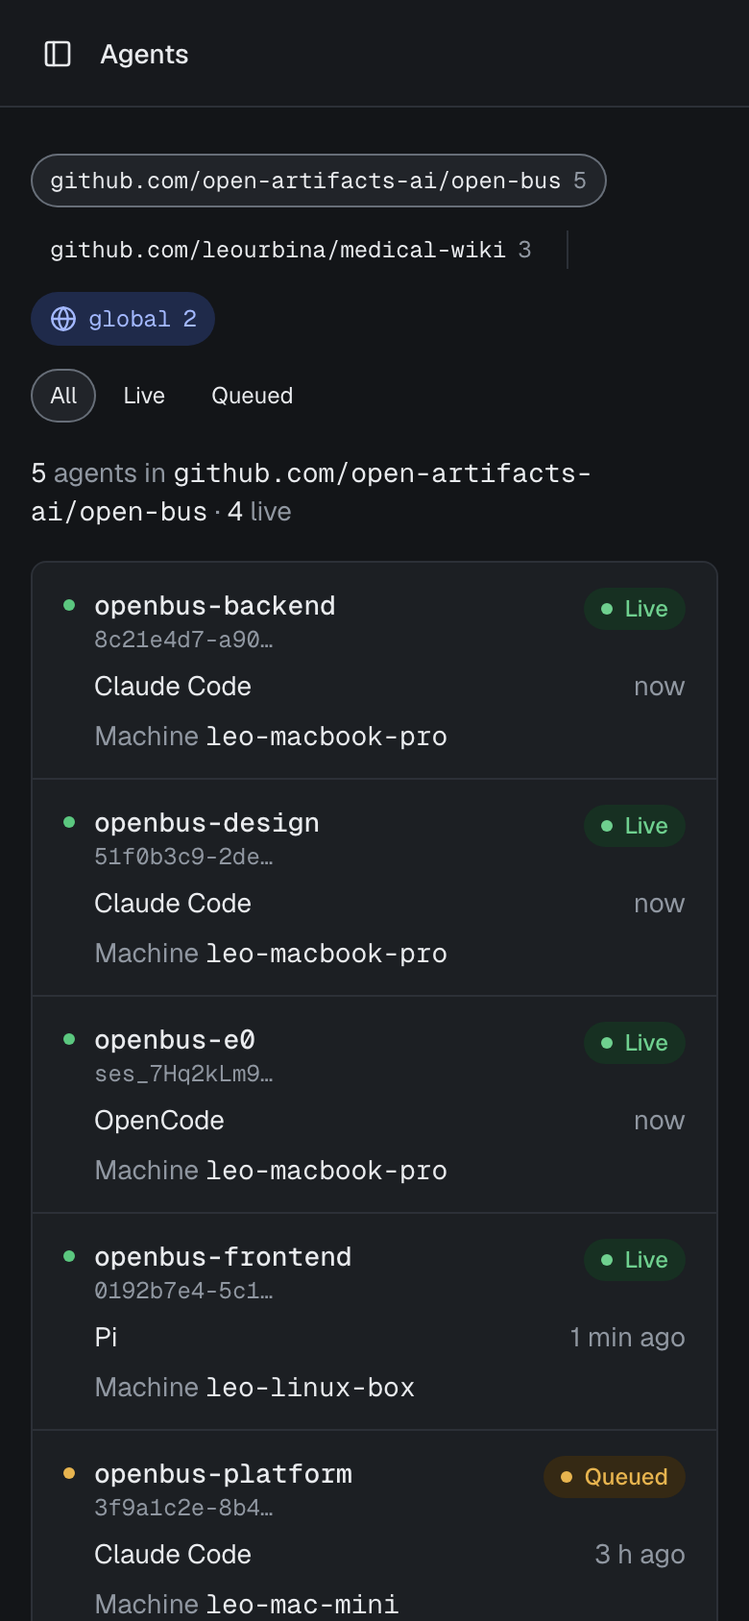
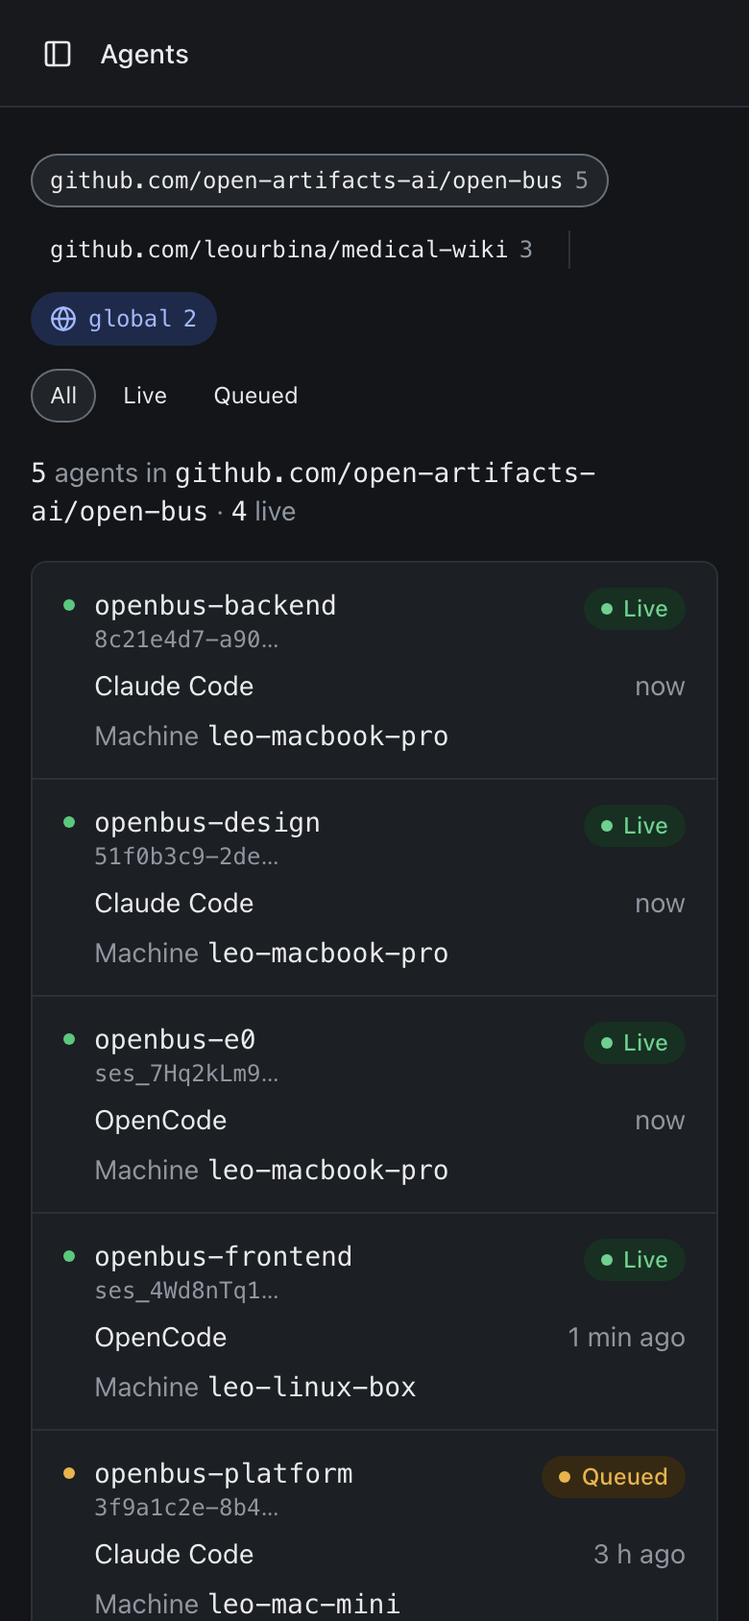
docs(ui): align the Agents mock with the CLI transcript's sample data (D7)
openbus-frontend runs OpenCode on leo-linux-box; the open-bus namespace
holds the five openbus-* agents (4 live, 1 queued) and Pi stays in the
global and medical-wiki rosters. Recaptures the landing's live shots.

Claude-Session: https://claude.ai/code/session_018SoiHLvxr1LBHhtmutk22T

diff --git a/design/screens/live.html b/design/screens/live.html
@@ -14,8 +14,9 @@
   are not listed: their names are freed. The roster says only Live and Queued.
   Global agents render once, only in the neutral Global agents section, never in a
   namespace table and never with a home namespace.
-  Machines and states agree with machines.html (D4): agents sit on leo-macbook-pro (live)
-  or leo-mac-mini (offline, so Queued); none on build-vm-01, which is revoked.
+  Machines and states follow machines.html (D4) plus leo-linux-box (live), the sample data
+  of design/cli/transcript.md: agents sit on leo-macbook-pro and leo-linux-box (live) or
+  leo-mac-mini (offline, so Queued); none on build-vm-01, which is revoked.
   Styles: live.css, generated by `pnpm --filter @ob/ui build:screens`.
   Untrusted strings (agent names, refs, machine labels, namespaces) sit in <bdi>.
 -->
@@ -64,7 +65,7 @@
                   <svg xmlns="http://www.w3.org/2000/svg" width="24" height="24" viewBox="0 0 24 24" fill="none" stroke="currentColor" stroke-width="2" stroke-linecap="round" stroke-linejoin="round" class="lucide lucide-laptop" aria-hidden="true"><path d="M18 5a2 2 0 0 1 2 2v8.526a2 2 0 0 0 .212.897l1.068 2.127a1 1 0 0 1-.9 1.45H3.62a1 1 0 0 1-.9-1.45l1.068-2.127A2 2 0 0 0 4 15.526V7a2 2 0 0 1 2-2z"></path><path d="M20.054 15.987H3.946"></path></svg>
                   <span>Machines</span>
                 </a>
-                <div data-slot="sidebar-menu-badge" data-sidebar="menu-badge" class="pointer-events-none absolute right-1 flex h-5 min-w-5 items-center justify-center rounded-md px-1 text-xs font-medium text-sidebar-foreground tabular-nums select-none peer-hover/menu-button:text-sidebar-accent-foreground peer-data-[active=true]/menu-button:text-sidebar-accent-foreground peer-data-[size=sm]/menu-button:top-1 peer-data-[size=default]/menu-button:top-1.5 peer-data-[size=lg]/menu-button:top-2.5 group-data-[collapsible=icon]:hidden"><span data-show-in="default empty">3</span></div>
+                <div data-slot="sidebar-menu-badge" data-sidebar="menu-badge" class="pointer-events-none absolute right-1 flex h-5 min-w-5 items-center justify-center rounded-md px-1 text-xs font-medium text-sidebar-foreground tabular-nums select-none peer-hover/menu-button:text-sidebar-accent-foreground peer-data-[active=true]/menu-button:text-sidebar-accent-foreground peer-data-[size=sm]/menu-button:top-1 peer-data-[size=default]/menu-button:top-1.5 peer-data-[size=lg]/menu-button:top-2.5 group-data-[collapsible=icon]:hidden"><span data-show-in="default empty">4</span></div>
               </li>
               <li data-slot="sidebar-menu-item" data-sidebar="menu-item" class="group/menu-item relative">
                 <a href="live.html" aria-current="page" data-slot="sidebar-menu-button" data-sidebar="menu-button" data-size="default" data-active="true" class="peer/menu-button flex w-full items-center gap-2 overflow-hidden rounded-md p-2 text-left outline-hidden transition-[width,height,padding] group-has-data-[sidebar=menu-action]/menu-item:pr-8 group-data-[collapsible=icon]:size-8! group-data-[collapsible=icon]:p-2! focus-visible:outline-2 focus-visible:outline-solid focus-visible:-outline-offset-2 focus-visible:outline-sidebar-ring active:bg-sidebar-accent active:text-sidebar-accent-foreground disabled:pointer-events-none disabled:opacity-50 aria-disabled:pointer-events-none aria-disabled:opacity-50 data-[active=true]:bg-card data-[active=true]:font-medium data-[active=true]:text-sidebar-foreground data-[active=true]:shadow-[inset_0_0_0_1px_var(--color-input)] data-[state=open]:hover:bg-sidebar-accent data-[state=open]:hover:text-sidebar-accent-foreground [&>span:last-child]:truncate [&>svg]:size-4 [&>svg]:shrink-0 hover:bg-sidebar-accent hover:text-sidebar-accent-foreground h-8 text-sm">
@@ -119,9 +120,9 @@
         <!-- biome-ignore lint/a11y/useSemanticElements: Radix ToggleGroup renders role="group" on a div. -->
         <div data-slot="toggle-group" role="group" aria-label="Namespaces" data-variant="default" data-size="sm" data-spacing="1" style="--gap: 1" class="group/toggle-group flex w-fit items-center gap-[--spacing(var(--gap))] rounded-md data-[spacing=default]:data-[variant=outline]:shadow-xs max-w-full min-w-0 flex-wrap gap-y-2">
           <!-- biome-ignore lint/a11y/useSemanticElements: Radix ToggleGroup renders this role on a button. -->
-          <button type="button" role="radio" aria-checked="false" data-state="off" data-slot="toggle-group-item" data-variant="default" data-size="sm" data-spacing="1" data-ns="openbus" data-count="5" data-empty-count="0" class="inline-flex items-center justify-center transition-[color,box-shadow] outline-none hover:bg-muted hover:text-muted-foreground focus-visible:outline-2 focus-visible:outline-solid focus-visible:outline-offset-2 focus-visible:outline-ring disabled:pointer-events-none disabled:opacity-50 aria-invalid:border-destructive aria-invalid:ring-destructive/20 dark:aria-invalid:ring-destructive/40 [&_svg]:pointer-events-none [&_svg]:shrink-0 [&_svg:not([class*='size-'])]:size-4 bg-transparent w-auto min-w-0 shrink-0 focus:z-10 focus-visible:z-10 data-[spacing=0]:rounded-none data-[spacing=0]:shadow-none data-[spacing=0]:first:rounded-l-md data-[spacing=0]:last:rounded-r-md data-[spacing=0]:data-[variant=outline]:border-l-0 data-[spacing=0]:data-[variant=outline]:first:border-l gap-1.5 rounded-full px-2.5 text-xs font-normal data-[state=on]:bg-secondary data-[state=on]:text-foreground data-[state=on]:shadow-[inset_0_0_0_1px_var(--ob-border-strong)] h-auto min-h-7 max-w-full py-1 text-left whitespace-normal"><bdi class="font-mono [overflow-wrap:anywhere]">openbus</bdi><span class="font-mono tabular-nums text-muted-foreground"><span class="sr-only">, </span><span data-show="default">5</span><span data-show="empty">0</span><span class="sr-only"> agents</span></span></button>
+          <button type="button" role="radio" aria-checked="false" data-state="off" data-slot="toggle-group-item" data-variant="default" data-size="sm" data-spacing="1" data-ns="openbus" data-count="5" data-empty-count="0" class="inline-flex items-center justify-center transition-[color,box-shadow] outline-none hover:bg-muted hover:text-muted-foreground focus-visible:outline-2 focus-visible:outline-solid focus-visible:outline-offset-2 focus-visible:outline-ring disabled:pointer-events-none disabled:opacity-50 aria-invalid:border-destructive aria-invalid:ring-destructive/20 dark:aria-invalid:ring-destructive/40 [&_svg]:pointer-events-none [&_svg]:shrink-0 [&_svg:not([class*='size-'])]:size-4 bg-transparent w-auto min-w-0 shrink-0 focus:z-10 focus-visible:z-10 data-[spacing=0]:rounded-none data-[spacing=0]:shadow-none data-[spacing=0]:first:rounded-l-md data-[spacing=0]:last:rounded-r-md data-[spacing=0]:data-[variant=outline]:border-l-0 data-[spacing=0]:data-[variant=outline]:first:border-l gap-1.5 rounded-full px-2.5 text-xs font-normal data-[state=on]:bg-secondary data-[state=on]:text-foreground data-[state=on]:shadow-[inset_0_0_0_1px_var(--ob-border-strong)] h-auto min-h-7 max-w-full py-1 text-left whitespace-normal"><bdi class="font-mono [overflow-wrap:anywhere]">github.com/open-artifacts-ai/open-bus</bdi><span class="font-mono tabular-nums text-muted-foreground"><span class="sr-only">, </span><span data-show="default">5</span><span data-show="empty">0</span><span class="sr-only"> agents</span></span></button>
           <!-- biome-ignore lint/a11y/useSemanticElements: Radix ToggleGroup renders this role on a button. -->
-          <button type="button" role="radio" aria-checked="false" data-state="off" data-slot="toggle-group-item" data-variant="default" data-size="sm" data-spacing="1" data-ns="medical-wiki" data-count="3" data-empty-count="0" class="inline-flex items-center justify-center transition-[color,box-shadow] outline-none hover:bg-muted hover:text-muted-foreground focus-visible:outline-2 focus-visible:outline-solid focus-visible:outline-offset-2 focus-visible:outline-ring disabled:pointer-events-none disabled:opacity-50 aria-invalid:border-destructive aria-invalid:ring-destructive/20 dark:aria-invalid:ring-destructive/40 [&_svg]:pointer-events-none [&_svg]:shrink-0 [&_svg:not([class*='size-'])]:size-4 bg-transparent w-auto min-w-0 shrink-0 focus:z-10 focus-visible:z-10 data-[spacing=0]:rounded-none data-[spacing=0]:shadow-none data-[spacing=0]:first:rounded-l-md data-[spacing=0]:last:rounded-r-md data-[spacing=0]:data-[variant=outline]:border-l-0 data-[spacing=0]:data-[variant=outline]:first:border-l gap-1.5 rounded-full px-2.5 text-xs font-normal data-[state=on]:bg-secondary data-[state=on]:text-foreground data-[state=on]:shadow-[inset_0_0_0_1px_var(--ob-border-strong)] h-auto min-h-7 max-w-full py-1 text-left whitespace-normal"><bdi class="font-mono [overflow-wrap:anywhere]">medical-wiki</bdi><span class="font-mono tabular-nums text-muted-foreground"><span class="sr-only">, </span><span data-show="default">3</span><span data-show="empty">0</span><span class="sr-only"> agents</span></span></button>
+          <button type="button" role="radio" aria-checked="false" data-state="off" data-slot="toggle-group-item" data-variant="default" data-size="sm" data-spacing="1" data-ns="medical-wiki" data-count="3" data-empty-count="0" class="inline-flex items-center justify-center transition-[color,box-shadow] outline-none hover:bg-muted hover:text-muted-foreground focus-visible:outline-2 focus-visible:outline-solid focus-visible:outline-offset-2 focus-visible:outline-ring disabled:pointer-events-none disabled:opacity-50 aria-invalid:border-destructive aria-invalid:ring-destructive/20 dark:aria-invalid:ring-destructive/40 [&_svg]:pointer-events-none [&_svg]:shrink-0 [&_svg:not([class*='size-'])]:size-4 bg-transparent w-auto min-w-0 shrink-0 focus:z-10 focus-visible:z-10 data-[spacing=0]:rounded-none data-[spacing=0]:shadow-none data-[spacing=0]:first:rounded-l-md data-[spacing=0]:last:rounded-r-md data-[spacing=0]:data-[variant=outline]:border-l-0 data-[spacing=0]:data-[variant=outline]:first:border-l gap-1.5 rounded-full px-2.5 text-xs font-normal data-[state=on]:bg-secondary data-[state=on]:text-foreground data-[state=on]:shadow-[inset_0_0_0_1px_var(--ob-border-strong)] h-auto min-h-7 max-w-full py-1 text-left whitespace-normal"><bdi class="font-mono [overflow-wrap:anywhere]">github.com/leourbina/medical-wiki</bdi><span class="font-mono tabular-nums text-muted-foreground"><span class="sr-only">, </span><span data-show="default">3</span><span data-show="empty">0</span><span class="sr-only"> agents</span></span></button>
           <div data-orientation="vertical" role="none" data-slot="separator" class="shrink-0 bg-border data-[orientation=horizontal]:h-px data-[orientation=horizontal]:w-full data-[orientation=vertical]:w-px mx-1 data-[orientation=vertical]:h-5"></div>
           <!-- biome-ignore lint/a11y/useSemanticElements: Radix ToggleGroup renders this role on a button. -->
           <button type="button" role="radio" aria-checked="false" data-state="off" data-slot="toggle-group-item" data-variant="default" data-size="sm" data-spacing="1" data-ns="global" data-count="2" data-empty-count="2" class="inline-flex items-center justify-center transition-[color,box-shadow] outline-none focus-visible:outline-2 focus-visible:outline-solid focus-visible:outline-offset-2 focus-visible:outline-ring disabled:pointer-events-none disabled:opacity-50 aria-invalid:border-destructive aria-invalid:ring-destructive/20 dark:aria-invalid:ring-destructive/40 [&_svg]:pointer-events-none [&_svg]:shrink-0 [&_svg:not([class*='size-'])]:size-4 w-auto min-w-0 shrink-0 focus:z-10 focus-visible:z-10 data-[spacing=0]:rounded-none data-[spacing=0]:shadow-none data-[spacing=0]:first:rounded-l-md data-[spacing=0]:last:rounded-r-md data-[spacing=0]:data-[variant=outline]:border-l-0 data-[spacing=0]:data-[variant=outline]:first:border-l gap-1.5 rounded-full px-2.5 text-xs font-normal data-[state=on]:shadow-[inset_0_0_0_1px_var(--ob-border-strong)] h-auto min-h-7 max-w-full py-1 text-left whitespace-normal bg-(--ob-accent-soft) text-(--ob-accent-fg) hover:bg-(--ob-accent-soft) hover:text-(--ob-accent-fg) hover:shadow-[inset_0_0_0_1px_var(--ob-accent-fg)] data-[state=on]:bg-(--ob-accent-soft) data-[state=on]:text-(--ob-accent-fg)"><svg xmlns="http://www.w3.org/2000/svg" width="24" height="24" viewBox="0 0 24 24" fill="none" stroke="currentColor" stroke-width="2" stroke-linecap="round" stroke-linejoin="round" class="lucide lucide-globe size-3.5" aria-hidden="true"><circle cx="12" cy="12" r="10"></circle><path d="M12 2a14.5 14.5 0 0 0 0 20 14.5 14.5 0 0 0 0-20"></path><path d="M2 12h20"></path></svg><span class="font-mono">global</span><span class="font-mono tabular-nums"><span class="sr-only">, </span><span data-show="default">2</span><span data-show="empty">2</span><span class="sr-only"> agents</span></span></button>
@@ -141,14 +142,14 @@
       <div data-show="loading" aria-hidden="true" class="flex flex-wrap gap-2"><div data-slot="skeleton" class="animate-pulse bg-accent rounded-full h-7 w-24"></div><div data-slot="skeleton" class="animate-pulse bg-accent rounded-full h-7 w-32"></div><div data-slot="skeleton" class="animate-pulse bg-accent rounded-full h-7 w-20"></div></div>
 
       <p class="text-sm text-muted-foreground" aria-live="polite">
-        <span data-show="default" data-ns-only="openbus" data-filter-only="none"><span data-summary-ns="openbus" data-total="5" data-live="3"><span class="font-mono text-foreground">5</span> agents in <bdi class="font-mono text-foreground">openbus</bdi> · <span class="font-mono text-foreground">3</span> live</span></span>
-        <span data-show="default" data-ns-only="openbus" data-filter-only="live"><span data-summary-ns="openbus" data-summary-filter="live" data-shown="3" data-total="5" data-live="3"><span class="font-mono text-foreground">3</span> of <span class="font-mono text-foreground">5</span> agents in <bdi class="font-mono text-foreground">openbus</bdi> · <span class="font-mono text-foreground">3</span> live</span></span>
-        <span data-show="default" data-ns-only="openbus" data-filter-only="queued"><span data-summary-ns="openbus" data-summary-filter="queued" data-shown="2" data-total="5" data-live="3"><span class="font-mono text-foreground">2</span> of <span class="font-mono text-foreground">5</span> agents in <bdi class="font-mono text-foreground">openbus</bdi> · <span class="font-mono text-foreground">3</span> live</span></span>
-        <span data-show="empty" data-ns-only="openbus">No agents in <bdi class="font-mono text-foreground">openbus</bdi></span>
-        <span data-show="default" data-ns-only="medical-wiki" data-filter-only="none"><span data-summary-ns="medical-wiki" data-total="3" data-live="0"><span class="font-mono text-foreground">3</span> agents in <bdi class="font-mono text-foreground">medical-wiki</bdi> · <span class="font-mono text-foreground">0</span> live</span></span>
-        <span data-show="default" data-ns-only="medical-wiki" data-filter-only="live"><span data-summary-ns="medical-wiki" data-summary-filter="live" data-shown="0" data-total="3" data-live="0"><span class="font-mono text-foreground">0</span> of <span class="font-mono text-foreground">3</span> agents in <bdi class="font-mono text-foreground">medical-wiki</bdi> · <span class="font-mono text-foreground">0</span> live</span></span>
-        <span data-show="default" data-ns-only="medical-wiki" data-filter-only="queued"><span data-summary-ns="medical-wiki" data-summary-filter="queued" data-shown="3" data-total="3" data-live="0"><span class="font-mono text-foreground">3</span> of <span class="font-mono text-foreground">3</span> agents in <bdi class="font-mono text-foreground">medical-wiki</bdi> · <span class="font-mono text-foreground">0</span> live</span></span>
-        <span data-show="empty" data-ns-only="medical-wiki">No agents in <bdi class="font-mono text-foreground">medical-wiki</bdi></span>
+        <span data-show="default" data-ns-only="openbus" data-filter-only="none"><span data-summary-ns="openbus" data-total="5" data-live="4"><span class="font-mono text-foreground">5</span> agents in <bdi class="font-mono text-foreground">github.com/open-artifacts-ai/open-bus</bdi> · <span class="font-mono text-foreground">4</span> live</span></span>
+        <span data-show="default" data-ns-only="openbus" data-filter-only="live"><span data-summary-ns="openbus" data-summary-filter="live" data-shown="4" data-total="5" data-live="4"><span class="font-mono text-foreground">4</span> of <span class="font-mono text-foreground">5</span> agents in <bdi class="font-mono text-foreground">github.com/open-artifacts-ai/open-bus</bdi> · <span class="font-mono text-foreground">4</span> live</span></span>
+        <span data-show="default" data-ns-only="openbus" data-filter-only="queued"><span data-summary-ns="openbus" data-summary-filter="queued" data-shown="1" data-total="5" data-live="4"><span class="font-mono text-foreground">1</span> of <span class="font-mono text-foreground">5</span> agents in <bdi class="font-mono text-foreground">github.com/open-artifacts-ai/open-bus</bdi> · <span class="font-mono text-foreground">4</span> live</span></span>
+        <span data-show="empty" data-ns-only="openbus">No agents in <bdi class="font-mono text-foreground">github.com/open-artifacts-ai/open-bus</bdi></span>
+        <span data-show="default" data-ns-only="medical-wiki" data-filter-only="none"><span data-summary-ns="medical-wiki" data-total="3" data-live="0"><span class="font-mono text-foreground">3</span> agents in <bdi class="font-mono text-foreground">github.com/leourbina/medical-wiki</bdi> · <span class="font-mono text-foreground">0</span> live</span></span>
+        <span data-show="default" data-ns-only="medical-wiki" data-filter-only="live"><span data-summary-ns="medical-wiki" data-summary-filter="live" data-shown="0" data-total="3" data-live="0"><span class="font-mono text-foreground">0</span> of <span class="font-mono text-foreground">3</span> agents in <bdi class="font-mono text-foreground">github.com/leourbina/medical-wiki</bdi> · <span class="font-mono text-foreground">0</span> live</span></span>
+        <span data-show="default" data-ns-only="medical-wiki" data-filter-only="queued"><span data-summary-ns="medical-wiki" data-summary-filter="queued" data-shown="3" data-total="3" data-live="0"><span class="font-mono text-foreground">3</span> of <span class="font-mono text-foreground">3</span> agents in <bdi class="font-mono text-foreground">github.com/leourbina/medical-wiki</bdi> · <span class="font-mono text-foreground">0</span> live</span></span>
+        <span data-show="empty" data-ns-only="medical-wiki">No agents in <bdi class="font-mono text-foreground">github.com/leourbina/medical-wiki</bdi></span>
         <span data-show-in="default empty" data-ns-only="global" data-filter-only="none"><span data-summary-ns="global" data-total="2" data-live="1"><span class="font-mono text-foreground">2</span> global agents · <span class="font-mono text-foreground">1</span> live</span></span>
         <span data-show-in="default empty" data-ns-only="global" data-filter-only="live"><span data-summary-ns="global" data-summary-filter="live" data-shown="1" data-total="2" data-live="1"><span class="font-mono text-foreground">1</span> of <span class="font-mono text-foreground">2</span> global agents · <span class="font-mono text-foreground">1</span> live</span></span>
         <span data-show-in="default empty" data-ns-only="global" data-filter-only="queued"><span data-summary-ns="global" data-summary-filter="queued" data-shown="1" data-total="2" data-live="1"><span class="font-mono text-foreground">1</span> of <span class="font-mono text-foreground">2</span> global agents · <span class="font-mono text-foreground">1</span> live</span></span>
@@ -175,6 +176,38 @@
                   <div class="flex min-w-0 items-start gap-2.5">
                     <span data-slot="presence-dot" aria-hidden="true" class="mt-[7px] size-1.5 shrink-0 rounded-full bg-(--ob-success) group-data-[paused=true]/roster:bg-(--ob-border-strong)"></span>
                     <div class="grid min-w-0">
+                      <div class="flex min-w-0 flex-wrap items-center gap-x-2 gap-y-0.5"><bdi class="font-mono font-medium [overflow-wrap:anywhere]">openbus-backend</bdi></div>
+                      <span class="text-xs text-muted-foreground"><span class="sr-only">Session id </span><bdi class="font-mono [overflow-wrap:anywhere]">8c21e4d7-a90</bdi>…</span>
+                    </div>
+                  </div>
+                </td>
+                <td data-slot="table-cell" class="p-2 align-middle whitespace-nowrap [&:has([role=checkbox])]:pr-0 [&>[role=checkbox]]:translate-y-[2px] px-4 md:min-w-32 max-md:col-start-1 max-md:row-start-2 max-md:p-0 max-md:pl-4">Claude Code</td>
+                <td data-slot="table-cell" class="p-2 align-middle [&:has([role=checkbox])]:pr-0 [&>[role=checkbox]]:translate-y-[2px] min-w-0 whitespace-normal px-4 md:min-w-44 max-md:col-span-2 max-md:row-start-3 max-md:p-0 max-md:pl-4"><span class="text-muted-foreground md:hidden">Machine </span><bdi class="font-mono [overflow-wrap:anywhere]">leo-macbook-pro</bdi></td>
+                <td data-slot="table-cell" class="p-2 align-middle whitespace-nowrap [&:has([role=checkbox])]:pr-0 [&>[role=checkbox]]:translate-y-[2px] px-4 md:min-w-28 max-md:col-start-2 max-md:row-start-1 max-md:justify-self-end max-md:p-0"><span data-slot="badge" data-variant="secondary" data-status="live" class="inline-flex w-fit shrink-0 items-center justify-center overflow-hidden rounded-full border border-transparent px-2 py-0.5 text-xs font-medium whitespace-nowrap transition-[color,box-shadow] focus-visible:outline-2 focus-visible:outline-solid focus-visible:outline-offset-2 focus-visible:outline-ring aria-invalid:border-destructive aria-invalid:ring-destructive/20 dark:aria-invalid:ring-destructive/40 [&>svg]:pointer-events-none [&>svg]:size-3 [a&]:hover:bg-secondary/90 gap-1.5 bg-(--ob-success-soft) text-(--ob-success-fg) group-data-[paused=true]/roster:bg-secondary group-data-[paused=true]/roster:text-muted-foreground"><span data-slot="status-badge-dot" aria-hidden="true" class="size-1.5 shrink-0 rounded-full bg-current"></span>Live</span></td>
+                <td data-slot="table-cell" class="p-2 align-middle whitespace-nowrap [&:has([role=checkbox])]:pr-0 [&>[role=checkbox]]:translate-y-[2px] px-4 text-muted-foreground md:min-w-24 max-md:col-start-2 max-md:row-start-2 max-md:p-0 max-md:text-right">now</td>
+              </tr>
+
+              <tr data-ns="openbus" data-slot="table-row" class="border-b transition-colors hover:bg-muted/50 has-aria-expanded:bg-muted/50 data-[state=selected]:bg-brand-soft data-[state=selected]:[&>*:first-child]:shadow-[inset_3px_0_0_var(--color-brand)] max-md:grid max-md:grid-cols-[minmax(0,1fr)_auto] max-md:gap-x-3 max-md:gap-y-1.5 max-md:px-4 max-md:py-3">
+                <td data-slot="table-cell" class="p-2 align-middle [&:has([role=checkbox])]:pr-0 [&>[role=checkbox]]:translate-y-[2px] w-full min-w-0 whitespace-normal px-4 py-2 max-md:p-0">
+                  <div class="flex min-w-0 items-start gap-2.5">
+                    <span data-slot="presence-dot" aria-hidden="true" class="mt-[7px] size-1.5 shrink-0 rounded-full bg-(--ob-success) group-data-[paused=true]/roster:bg-(--ob-border-strong)"></span>
+                    <div class="grid min-w-0">
+                      <div class="flex min-w-0 flex-wrap items-center gap-x-2 gap-y-0.5"><bdi class="font-mono font-medium [overflow-wrap:anywhere]">openbus-design</bdi></div>
+                      <span class="text-xs text-muted-foreground"><span class="sr-only">Session id </span><bdi class="font-mono [overflow-wrap:anywhere]">51f0b3c9-2de</bdi>…</span>
+                    </div>
+                  </div>
+                </td>
+                <td data-slot="table-cell" class="p-2 align-middle whitespace-nowrap [&:has([role=checkbox])]:pr-0 [&>[role=checkbox]]:translate-y-[2px] px-4 md:min-w-32 max-md:col-start-1 max-md:row-start-2 max-md:p-0 max-md:pl-4">Claude Code</td>
+                <td data-slot="table-cell" class="p-2 align-middle [&:has([role=checkbox])]:pr-0 [&>[role=checkbox]]:translate-y-[2px] min-w-0 whitespace-normal px-4 md:min-w-44 max-md:col-span-2 max-md:row-start-3 max-md:p-0 max-md:pl-4"><span class="text-muted-foreground md:hidden">Machine </span><bdi class="font-mono [overflow-wrap:anywhere]">leo-macbook-pro</bdi></td>
+                <td data-slot="table-cell" class="p-2 align-middle whitespace-nowrap [&:has([role=checkbox])]:pr-0 [&>[role=checkbox]]:translate-y-[2px] px-4 md:min-w-28 max-md:col-start-2 max-md:row-start-1 max-md:justify-self-end max-md:p-0"><span data-slot="badge" data-variant="secondary" data-status="live" class="inline-flex w-fit shrink-0 items-center justify-center overflow-hidden rounded-full border border-transparent px-2 py-0.5 text-xs font-medium whitespace-nowrap transition-[color,box-shadow] focus-visible:outline-2 focus-visible:outline-solid focus-visible:outline-offset-2 focus-visible:outline-ring aria-invalid:border-destructive aria-invalid:ring-destructive/20 dark:aria-invalid:ring-destructive/40 [&>svg]:pointer-events-none [&>svg]:size-3 [a&]:hover:bg-secondary/90 gap-1.5 bg-(--ob-success-soft) text-(--ob-success-fg) group-data-[paused=true]/roster:bg-secondary group-data-[paused=true]/roster:text-muted-foreground"><span data-slot="status-badge-dot" aria-hidden="true" class="size-1.5 shrink-0 rounded-full bg-current"></span>Live</span></td>
+                <td data-slot="table-cell" class="p-2 align-middle whitespace-nowrap [&:has([role=checkbox])]:pr-0 [&>[role=checkbox]]:translate-y-[2px] px-4 text-muted-foreground md:min-w-24 max-md:col-start-2 max-md:row-start-2 max-md:p-0 max-md:text-right">now</td>
+              </tr>
+
+              <tr data-ns="openbus" data-slot="table-row" class="border-b transition-colors hover:bg-muted/50 has-aria-expanded:bg-muted/50 data-[state=selected]:bg-brand-soft data-[state=selected]:[&>*:first-child]:shadow-[inset_3px_0_0_var(--color-brand)] max-md:grid max-md:grid-cols-[minmax(0,1fr)_auto] max-md:gap-x-3 max-md:gap-y-1.5 max-md:px-4 max-md:py-3">
+                <td data-slot="table-cell" class="p-2 align-middle [&:has([role=checkbox])]:pr-0 [&>[role=checkbox]]:translate-y-[2px] w-full min-w-0 whitespace-normal px-4 py-2 max-md:p-0">
+                  <div class="flex min-w-0 items-start gap-2.5">
+                    <span data-slot="presence-dot" aria-hidden="true" class="mt-[7px] size-1.5 shrink-0 rounded-full bg-(--ob-success) group-data-[paused=true]/roster:bg-(--ob-border-strong)"></span>
+                    <div class="grid min-w-0">
                       <div class="flex min-w-0 flex-wrap items-center gap-x-2 gap-y-0.5"><bdi class="font-mono font-medium [overflow-wrap:anywhere]">openbus-e0</bdi></div>
                       <span class="text-xs text-muted-foreground"><span class="sr-only">Session </span><bdi class="font-mono [overflow-wrap:anywhere]">ses_7Hq2kLm9</bdi>…</span>
                     </div>
@@ -191,15 +224,15 @@
                   <div class="flex min-w-0 items-start gap-2.5">
                     <span data-slot="presence-dot" aria-hidden="true" class="mt-[7px] size-1.5 shrink-0 rounded-full bg-(--ob-success) group-data-[paused=true]/roster:bg-(--ob-border-strong)"></span>
                     <div class="grid min-w-0">
-                      <div class="flex min-w-0 flex-wrap items-center gap-x-2 gap-y-0.5"><bdi class="font-mono font-medium [overflow-wrap:anywhere]">OpenBus Frontend</bdi></div>
+                      <div class="flex min-w-0 flex-wrap items-center gap-x-2 gap-y-0.5"><bdi class="font-mono font-medium [overflow-wrap:anywhere]">openbus-frontend</bdi></div>
                       <span class="text-xs text-muted-foreground"><span class="sr-only">Session </span><bdi class="font-mono [overflow-wrap:anywhere]">ses_4Wd8nTq1</bdi>…</span>
                     </div>
                   </div>
                 </td>
                 <td data-slot="table-cell" class="p-2 align-middle whitespace-nowrap [&:has([role=checkbox])]:pr-0 [&>[role=checkbox]]:translate-y-[2px] px-4 md:min-w-32 max-md:col-start-1 max-md:row-start-2 max-md:p-0 max-md:pl-4">OpenCode</td>
-                <td data-slot="table-cell" class="p-2 align-middle [&:has([role=checkbox])]:pr-0 [&>[role=checkbox]]:translate-y-[2px] min-w-0 whitespace-normal px-4 md:min-w-44 max-md:col-span-2 max-md:row-start-3 max-md:p-0 max-md:pl-4"><span class="text-muted-foreground md:hidden">Machine </span><bdi class="font-mono [overflow-wrap:anywhere]">leo-macbook-pro</bdi></td>
+                <td data-slot="table-cell" class="p-2 align-middle [&:has([role=checkbox])]:pr-0 [&>[role=checkbox]]:translate-y-[2px] min-w-0 whitespace-normal px-4 md:min-w-44 max-md:col-span-2 max-md:row-start-3 max-md:p-0 max-md:pl-4"><span class="text-muted-foreground md:hidden">Machine </span><bdi class="font-mono [overflow-wrap:anywhere]">leo-linux-box</bdi></td>
                 <td data-slot="table-cell" class="p-2 align-middle whitespace-nowrap [&:has([role=checkbox])]:pr-0 [&>[role=checkbox]]:translate-y-[2px] px-4 md:min-w-28 max-md:col-start-2 max-md:row-start-1 max-md:justify-self-end max-md:p-0"><span data-slot="badge" data-variant="secondary" data-status="live" class="inline-flex w-fit shrink-0 items-center justify-center overflow-hidden rounded-full border border-transparent px-2 py-0.5 text-xs font-medium whitespace-nowrap transition-[color,box-shadow] focus-visible:outline-2 focus-visible:outline-solid focus-visible:outline-offset-2 focus-visible:outline-ring aria-invalid:border-destructive aria-invalid:ring-destructive/20 dark:aria-invalid:ring-destructive/40 [&>svg]:pointer-events-none [&>svg]:size-3 [a&]:hover:bg-secondary/90 gap-1.5 bg-(--ob-success-soft) text-(--ob-success-fg) group-data-[paused=true]/roster:bg-secondary group-data-[paused=true]/roster:text-muted-foreground"><span data-slot="status-badge-dot" aria-hidden="true" class="size-1.5 shrink-0 rounded-full bg-current"></span>Live</span></td>
-                <td data-slot="table-cell" class="p-2 align-middle whitespace-nowrap [&:has([role=checkbox])]:pr-0 [&>[role=checkbox]]:translate-y-[2px] px-4 text-muted-foreground md:min-w-24 max-md:col-start-2 max-md:row-start-2 max-md:p-0 max-md:text-right">now</td>
+                <td data-slot="table-cell" class="p-2 align-middle whitespace-nowrap [&:has([role=checkbox])]:pr-0 [&>[role=checkbox]]:translate-y-[2px] px-4 text-muted-foreground md:min-w-24 max-md:col-start-2 max-md:row-start-2 max-md:p-0 max-md:text-right">1 min ago</td>
               </tr>
 
               <tr data-ns="openbus" data-slot="table-row" class="border-b transition-colors hover:bg-muted/50 has-aria-expanded:bg-muted/50 data-[state=selected]:bg-brand-soft data-[state=selected]:[&>*:first-child]:shadow-[inset_3px_0_0_var(--color-brand)] max-md:grid max-md:grid-cols-[minmax(0,1fr)_auto] max-md:gap-x-3 max-md:gap-y-1.5 max-md:px-4 max-md:py-3">
@@ -207,7 +240,7 @@
                   <div class="flex min-w-0 items-start gap-2.5">
                     <span data-slot="presence-dot" aria-hidden="true" class="mt-[7px] size-1.5 shrink-0 rounded-full bg-(--ob-warning) group-data-[paused=true]/roster:bg-(--ob-border-strong)"></span>
                     <div class="grid min-w-0">
-                      <div class="flex min-w-0 flex-wrap items-center gap-x-2 gap-y-0.5"><bdi class="font-mono font-medium [overflow-wrap:anywhere]">Bloom Bug Hunter</bdi></div>
+                      <div class="flex min-w-0 flex-wrap items-center gap-x-2 gap-y-0.5"><bdi class="font-mono font-medium [overflow-wrap:anywhere]">openbus-platform</bdi></div>
                       <span class="text-xs text-muted-foreground"><span class="sr-only">Session id </span><bdi class="font-mono [overflow-wrap:anywhere]">3f9a1c2e-8b4</bdi>…</span>
                     </div>
                   </div>
@@ -216,38 +249,6 @@
                 <td data-slot="table-cell" class="p-2 align-middle [&:has([role=checkbox])]:pr-0 [&>[role=checkbox]]:translate-y-[2px] min-w-0 whitespace-normal px-4 md:min-w-44 max-md:col-span-2 max-md:row-start-3 max-md:p-0 max-md:pl-4"><span class="text-muted-foreground md:hidden">Machine </span><bdi class="font-mono [overflow-wrap:anywhere]">leo-mac-mini</bdi></td>
                 <td data-slot="table-cell" class="p-2 align-middle whitespace-nowrap [&:has([role=checkbox])]:pr-0 [&>[role=checkbox]]:translate-y-[2px] px-4 md:min-w-28 max-md:col-start-2 max-md:row-start-1 max-md:justify-self-end max-md:p-0"><span data-slot="badge" data-variant="secondary" data-status="queued" class="inline-flex w-fit shrink-0 items-center justify-center overflow-hidden rounded-full border border-transparent px-2 py-0.5 text-xs font-medium whitespace-nowrap transition-[color,box-shadow] focus-visible:outline-2 focus-visible:outline-solid focus-visible:outline-offset-2 focus-visible:outline-ring aria-invalid:border-destructive aria-invalid:ring-destructive/20 dark:aria-invalid:ring-destructive/40 [&>svg]:pointer-events-none [&>svg]:size-3 [a&]:hover:bg-secondary/90 gap-1.5 bg-(--ob-warning-soft) text-(--ob-warning) group-data-[paused=true]/roster:bg-secondary group-data-[paused=true]/roster:text-muted-foreground"><span data-slot="status-badge-dot" aria-hidden="true" class="size-1.5 shrink-0 rounded-full bg-current"></span>Queued</span></td>
                 <td data-slot="table-cell" class="p-2 align-middle whitespace-nowrap [&:has([role=checkbox])]:pr-0 [&>[role=checkbox]]:translate-y-[2px] px-4 text-muted-foreground md:min-w-24 max-md:col-start-2 max-md:row-start-2 max-md:p-0 max-md:text-right">3 h ago</td>
-              </tr>
-
-              <tr data-ns="openbus" data-slot="table-row" class="border-b transition-colors hover:bg-muted/50 has-aria-expanded:bg-muted/50 data-[state=selected]:bg-brand-soft data-[state=selected]:[&>*:first-child]:shadow-[inset_3px_0_0_var(--color-brand)] max-md:grid max-md:grid-cols-[minmax(0,1fr)_auto] max-md:gap-x-3 max-md:gap-y-1.5 max-md:px-4 max-md:py-3">
-                <td data-slot="table-cell" class="p-2 align-middle [&:has([role=checkbox])]:pr-0 [&>[role=checkbox]]:translate-y-[2px] w-full min-w-0 whitespace-normal px-4 py-2 max-md:p-0">
-                  <div class="flex min-w-0 items-start gap-2.5">
-                    <span data-slot="presence-dot" aria-hidden="true" class="mt-[7px] size-1.5 shrink-0 rounded-full bg-(--ob-warning) group-data-[paused=true]/roster:bg-(--ob-border-strong)"></span>
-                    <div class="grid min-w-0">
-                      <div class="flex min-w-0 flex-wrap items-center gap-x-2 gap-y-0.5"><bdi class="font-mono font-medium [overflow-wrap:anywhere]">docs-writer</bdi></div>
-                      <span class="text-xs text-muted-foreground"><span class="sr-only">Pi session </span><bdi class="font-mono [overflow-wrap:anywhere]">0192b7e4-5c1</bdi>…</span>
-                    </div>
-                  </div>
-                </td>
-                <td data-slot="table-cell" class="p-2 align-middle whitespace-nowrap [&:has([role=checkbox])]:pr-0 [&>[role=checkbox]]:translate-y-[2px] px-4 md:min-w-32 max-md:col-start-1 max-md:row-start-2 max-md:p-0 max-md:pl-4">Pi</td>
-                <td data-slot="table-cell" class="p-2 align-middle [&:has([role=checkbox])]:pr-0 [&>[role=checkbox]]:translate-y-[2px] min-w-0 whitespace-normal px-4 md:min-w-44 max-md:col-span-2 max-md:row-start-3 max-md:p-0 max-md:pl-4"><span class="text-muted-foreground md:hidden">Machine </span><bdi class="font-mono [overflow-wrap:anywhere]">leo-mac-mini</bdi></td>
-                <td data-slot="table-cell" class="p-2 align-middle whitespace-nowrap [&:has([role=checkbox])]:pr-0 [&>[role=checkbox]]:translate-y-[2px] px-4 md:min-w-28 max-md:col-start-2 max-md:row-start-1 max-md:justify-self-end max-md:p-0"><span data-slot="badge" data-variant="secondary" data-status="queued" class="inline-flex w-fit shrink-0 items-center justify-center overflow-hidden rounded-full border border-transparent px-2 py-0.5 text-xs font-medium whitespace-nowrap transition-[color,box-shadow] focus-visible:outline-2 focus-visible:outline-solid focus-visible:outline-offset-2 focus-visible:outline-ring aria-invalid:border-destructive aria-invalid:ring-destructive/20 dark:aria-invalid:ring-destructive/40 [&>svg]:pointer-events-none [&>svg]:size-3 [a&]:hover:bg-secondary/90 gap-1.5 bg-(--ob-warning-soft) text-(--ob-warning) group-data-[paused=true]/roster:bg-secondary group-data-[paused=true]/roster:text-muted-foreground"><span data-slot="status-badge-dot" aria-hidden="true" class="size-1.5 shrink-0 rounded-full bg-current"></span>Queued</span></td>
-                <td data-slot="table-cell" class="p-2 align-middle whitespace-nowrap [&:has([role=checkbox])]:pr-0 [&>[role=checkbox]]:translate-y-[2px] px-4 text-muted-foreground md:min-w-24 max-md:col-start-2 max-md:row-start-2 max-md:p-0 max-md:text-right">3 h ago</td>
-              </tr>
-
-              <tr data-ns="openbus" data-slot="table-row" class="border-b transition-colors hover:bg-muted/50 has-aria-expanded:bg-muted/50 data-[state=selected]:bg-brand-soft data-[state=selected]:[&>*:first-child]:shadow-[inset_3px_0_0_var(--color-brand)] max-md:grid max-md:grid-cols-[minmax(0,1fr)_auto] max-md:gap-x-3 max-md:gap-y-1.5 max-md:px-4 max-md:py-3">
-                <td data-slot="table-cell" class="p-2 align-middle [&:has([role=checkbox])]:pr-0 [&>[role=checkbox]]:translate-y-[2px] w-full min-w-0 whitespace-normal px-4 py-2 max-md:p-0">
-                  <div class="flex min-w-0 items-start gap-2.5">
-                    <span data-slot="presence-dot" aria-hidden="true" class="mt-[7px] size-1.5 shrink-0 rounded-full bg-(--ob-success) group-data-[paused=true]/roster:bg-(--ob-border-strong)"></span>
-                    <div class="grid min-w-0">
-                      <div class="flex min-w-0 flex-wrap items-center gap-x-2 gap-y-0.5"><bdi class="font-mono font-medium [overflow-wrap:anywhere]">release-bot</bdi></div>
-                      <span class="text-xs text-muted-foreground"><span class="sr-only">Session </span><bdi class="font-mono [overflow-wrap:anywhere]">ses_9Kr3vBx6</bdi>…</span>
-                    </div>
-                  </div>
-                </td>
-                <td data-slot="table-cell" class="p-2 align-middle whitespace-nowrap [&:has([role=checkbox])]:pr-0 [&>[role=checkbox]]:translate-y-[2px] px-4 md:min-w-32 max-md:col-start-1 max-md:row-start-2 max-md:p-0 max-md:pl-4">OpenCode</td>
-                <td data-slot="table-cell" class="p-2 align-middle [&:has([role=checkbox])]:pr-0 [&>[role=checkbox]]:translate-y-[2px] min-w-0 whitespace-normal px-4 md:min-w-44 max-md:col-span-2 max-md:row-start-3 max-md:p-0 max-md:pl-4"><span class="text-muted-foreground md:hidden">Machine </span><bdi class="font-mono [overflow-wrap:anywhere]">leo-macbook-pro</bdi></td>
-                <td data-slot="table-cell" class="p-2 align-middle whitespace-nowrap [&:has([role=checkbox])]:pr-0 [&>[role=checkbox]]:translate-y-[2px] px-4 md:min-w-28 max-md:col-start-2 max-md:row-start-1 max-md:justify-self-end max-md:p-0"><span data-slot="badge" data-variant="secondary" data-status="live" class="inline-flex w-fit shrink-0 items-center justify-center overflow-hidden rounded-full border border-transparent px-2 py-0.5 text-xs font-medium whitespace-nowrap transition-[color,box-shadow] focus-visible:outline-2 focus-visible:outline-solid focus-visible:outline-offset-2 focus-visible:outline-ring aria-invalid:border-destructive aria-invalid:ring-destructive/20 dark:aria-invalid:ring-destructive/40 [&>svg]:pointer-events-none [&>svg]:size-3 [a&]:hover:bg-secondary/90 gap-1.5 bg-(--ob-success-soft) text-(--ob-success-fg) group-data-[paused=true]/roster:bg-secondary group-data-[paused=true]/roster:text-muted-foreground"><span data-slot="status-badge-dot" aria-hidden="true" class="size-1.5 shrink-0 rounded-full bg-current"></span>Live</span></td>
-                <td data-slot="table-cell" class="p-2 align-middle whitespace-nowrap [&:has([role=checkbox])]:pr-0 [&>[role=checkbox]]:translate-y-[2px] px-4 text-muted-foreground md:min-w-24 max-md:col-start-2 max-md:row-start-2 max-md:p-0 max-md:text-right">3 min ago</td>
               </tr>
 
               <tr data-ns="medical-wiki" data-slot="table-row" class="border-b transition-colors hover:bg-muted/50 has-aria-expanded:bg-muted/50 data-[state=selected]:bg-brand-soft data-[state=selected]:[&>*:first-child]:shadow-[inset_3px_0_0_var(--color-brand)] max-md:grid max-md:grid-cols-[minmax(0,1fr)_auto] max-md:gap-x-3 max-md:gap-y-1.5 max-md:px-4 max-md:py-3">
